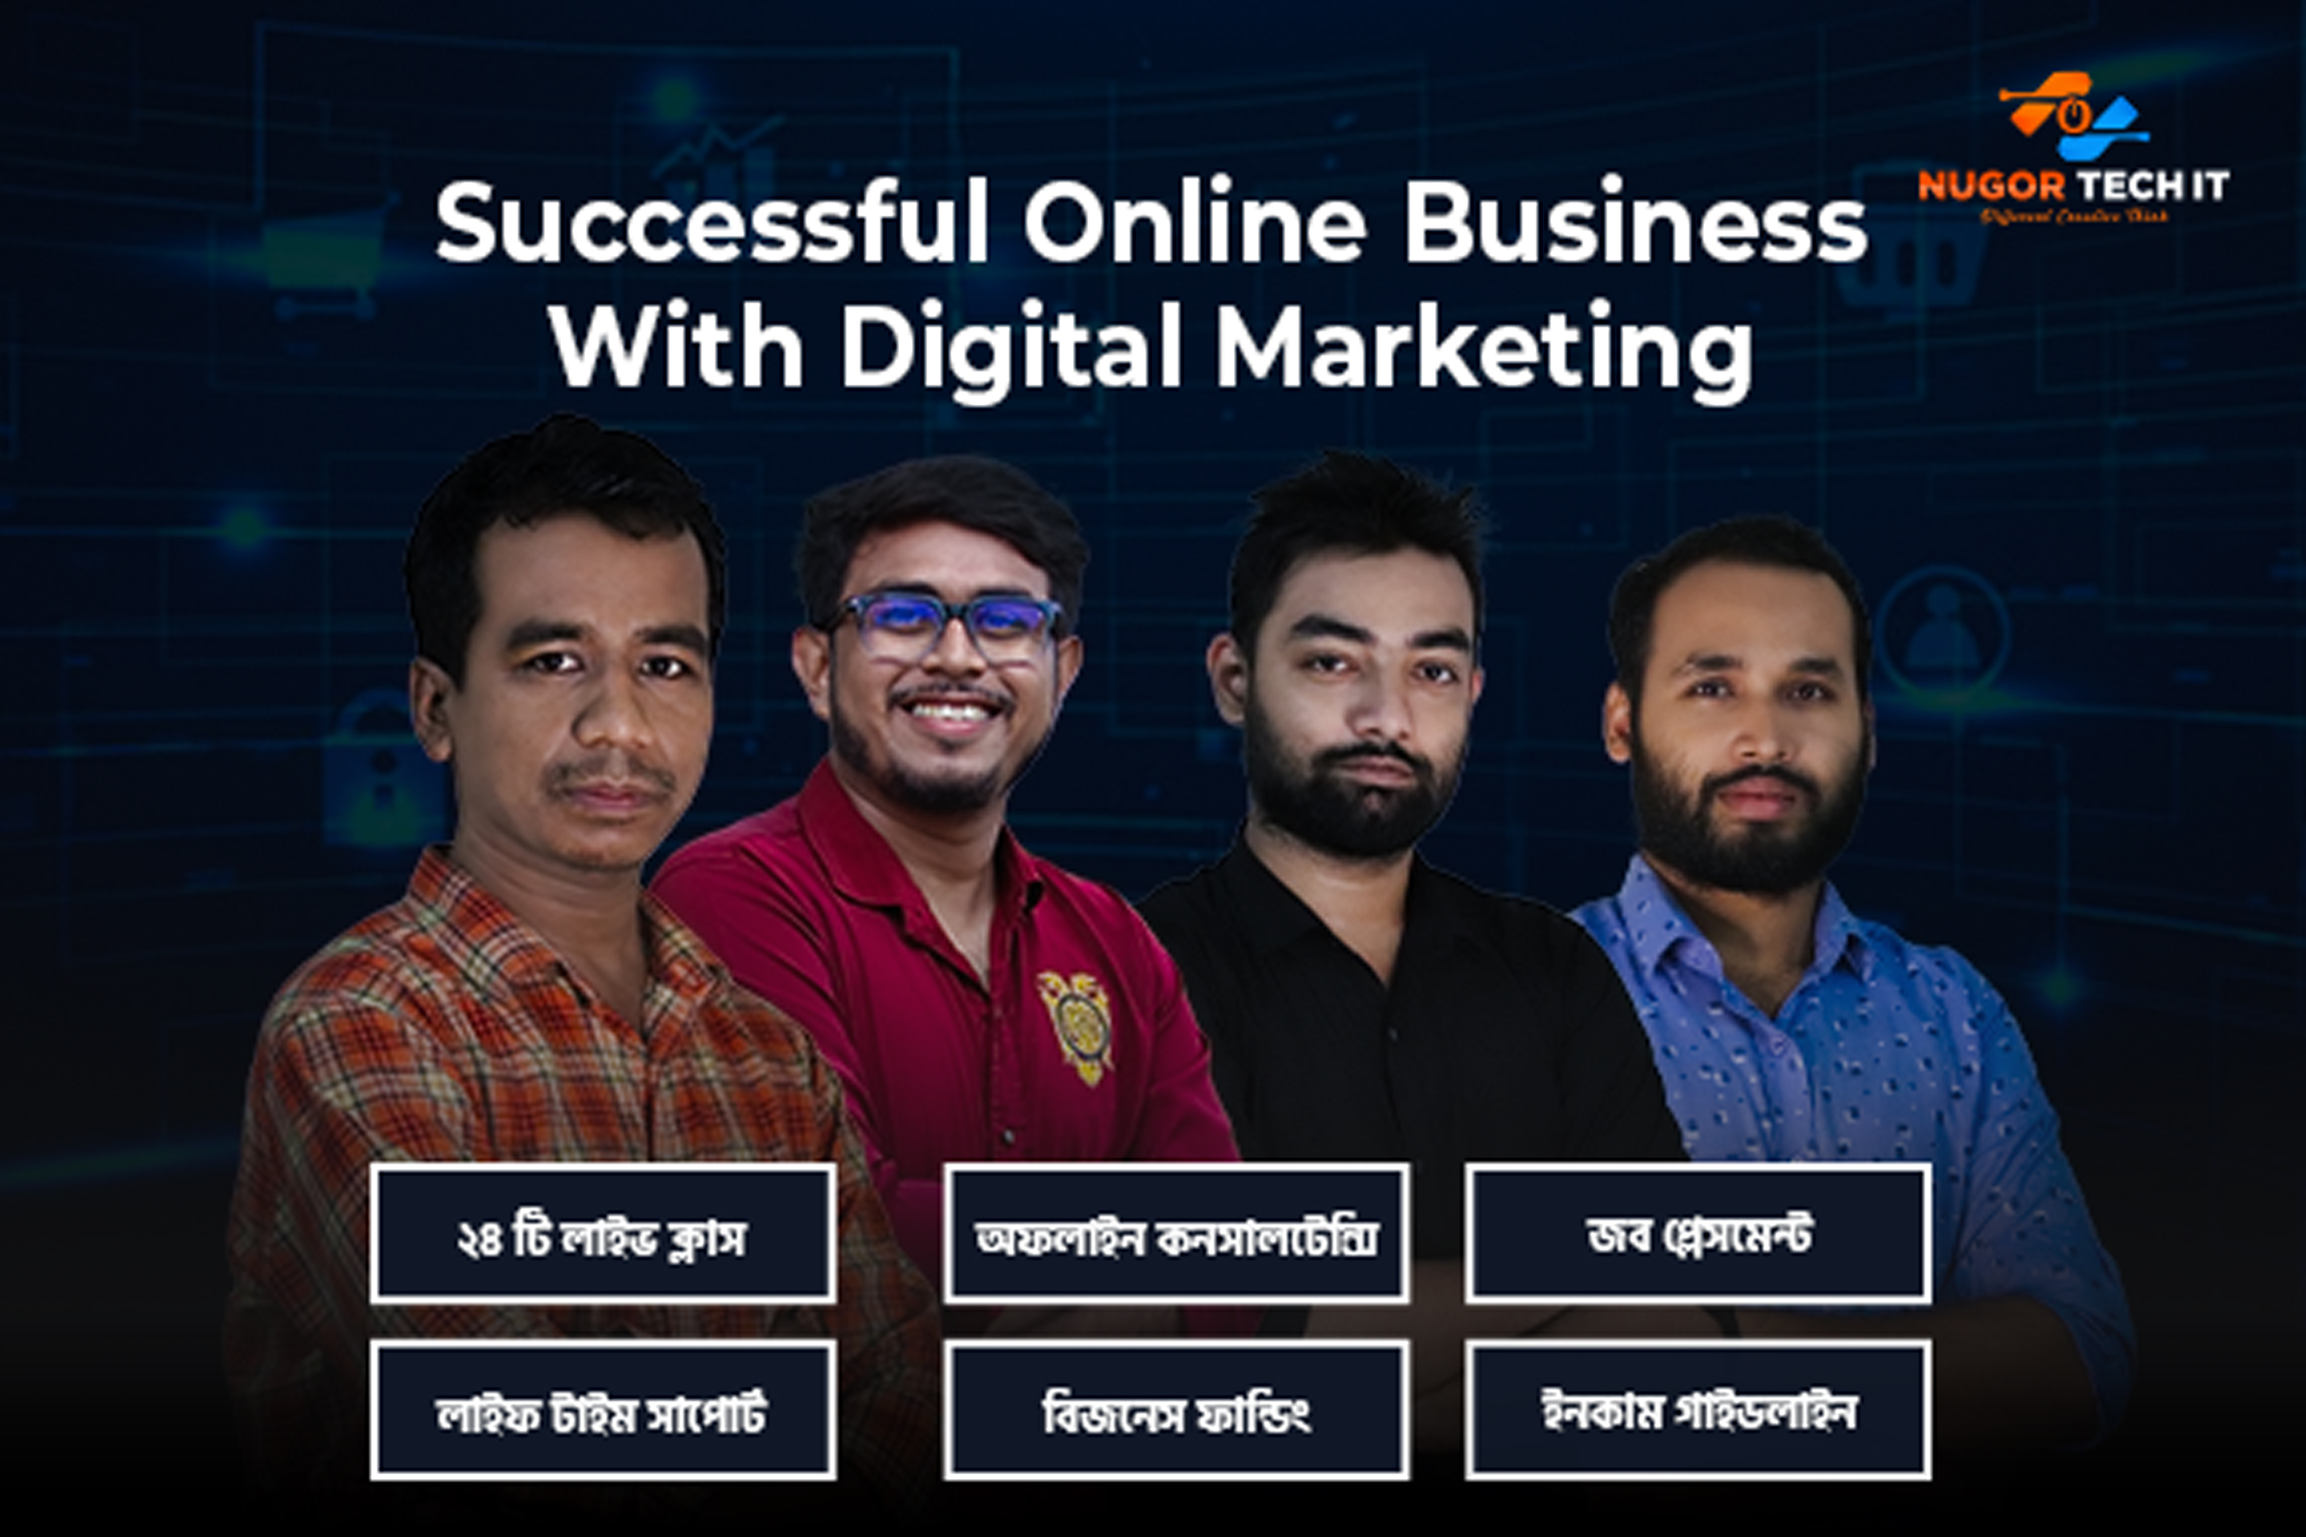
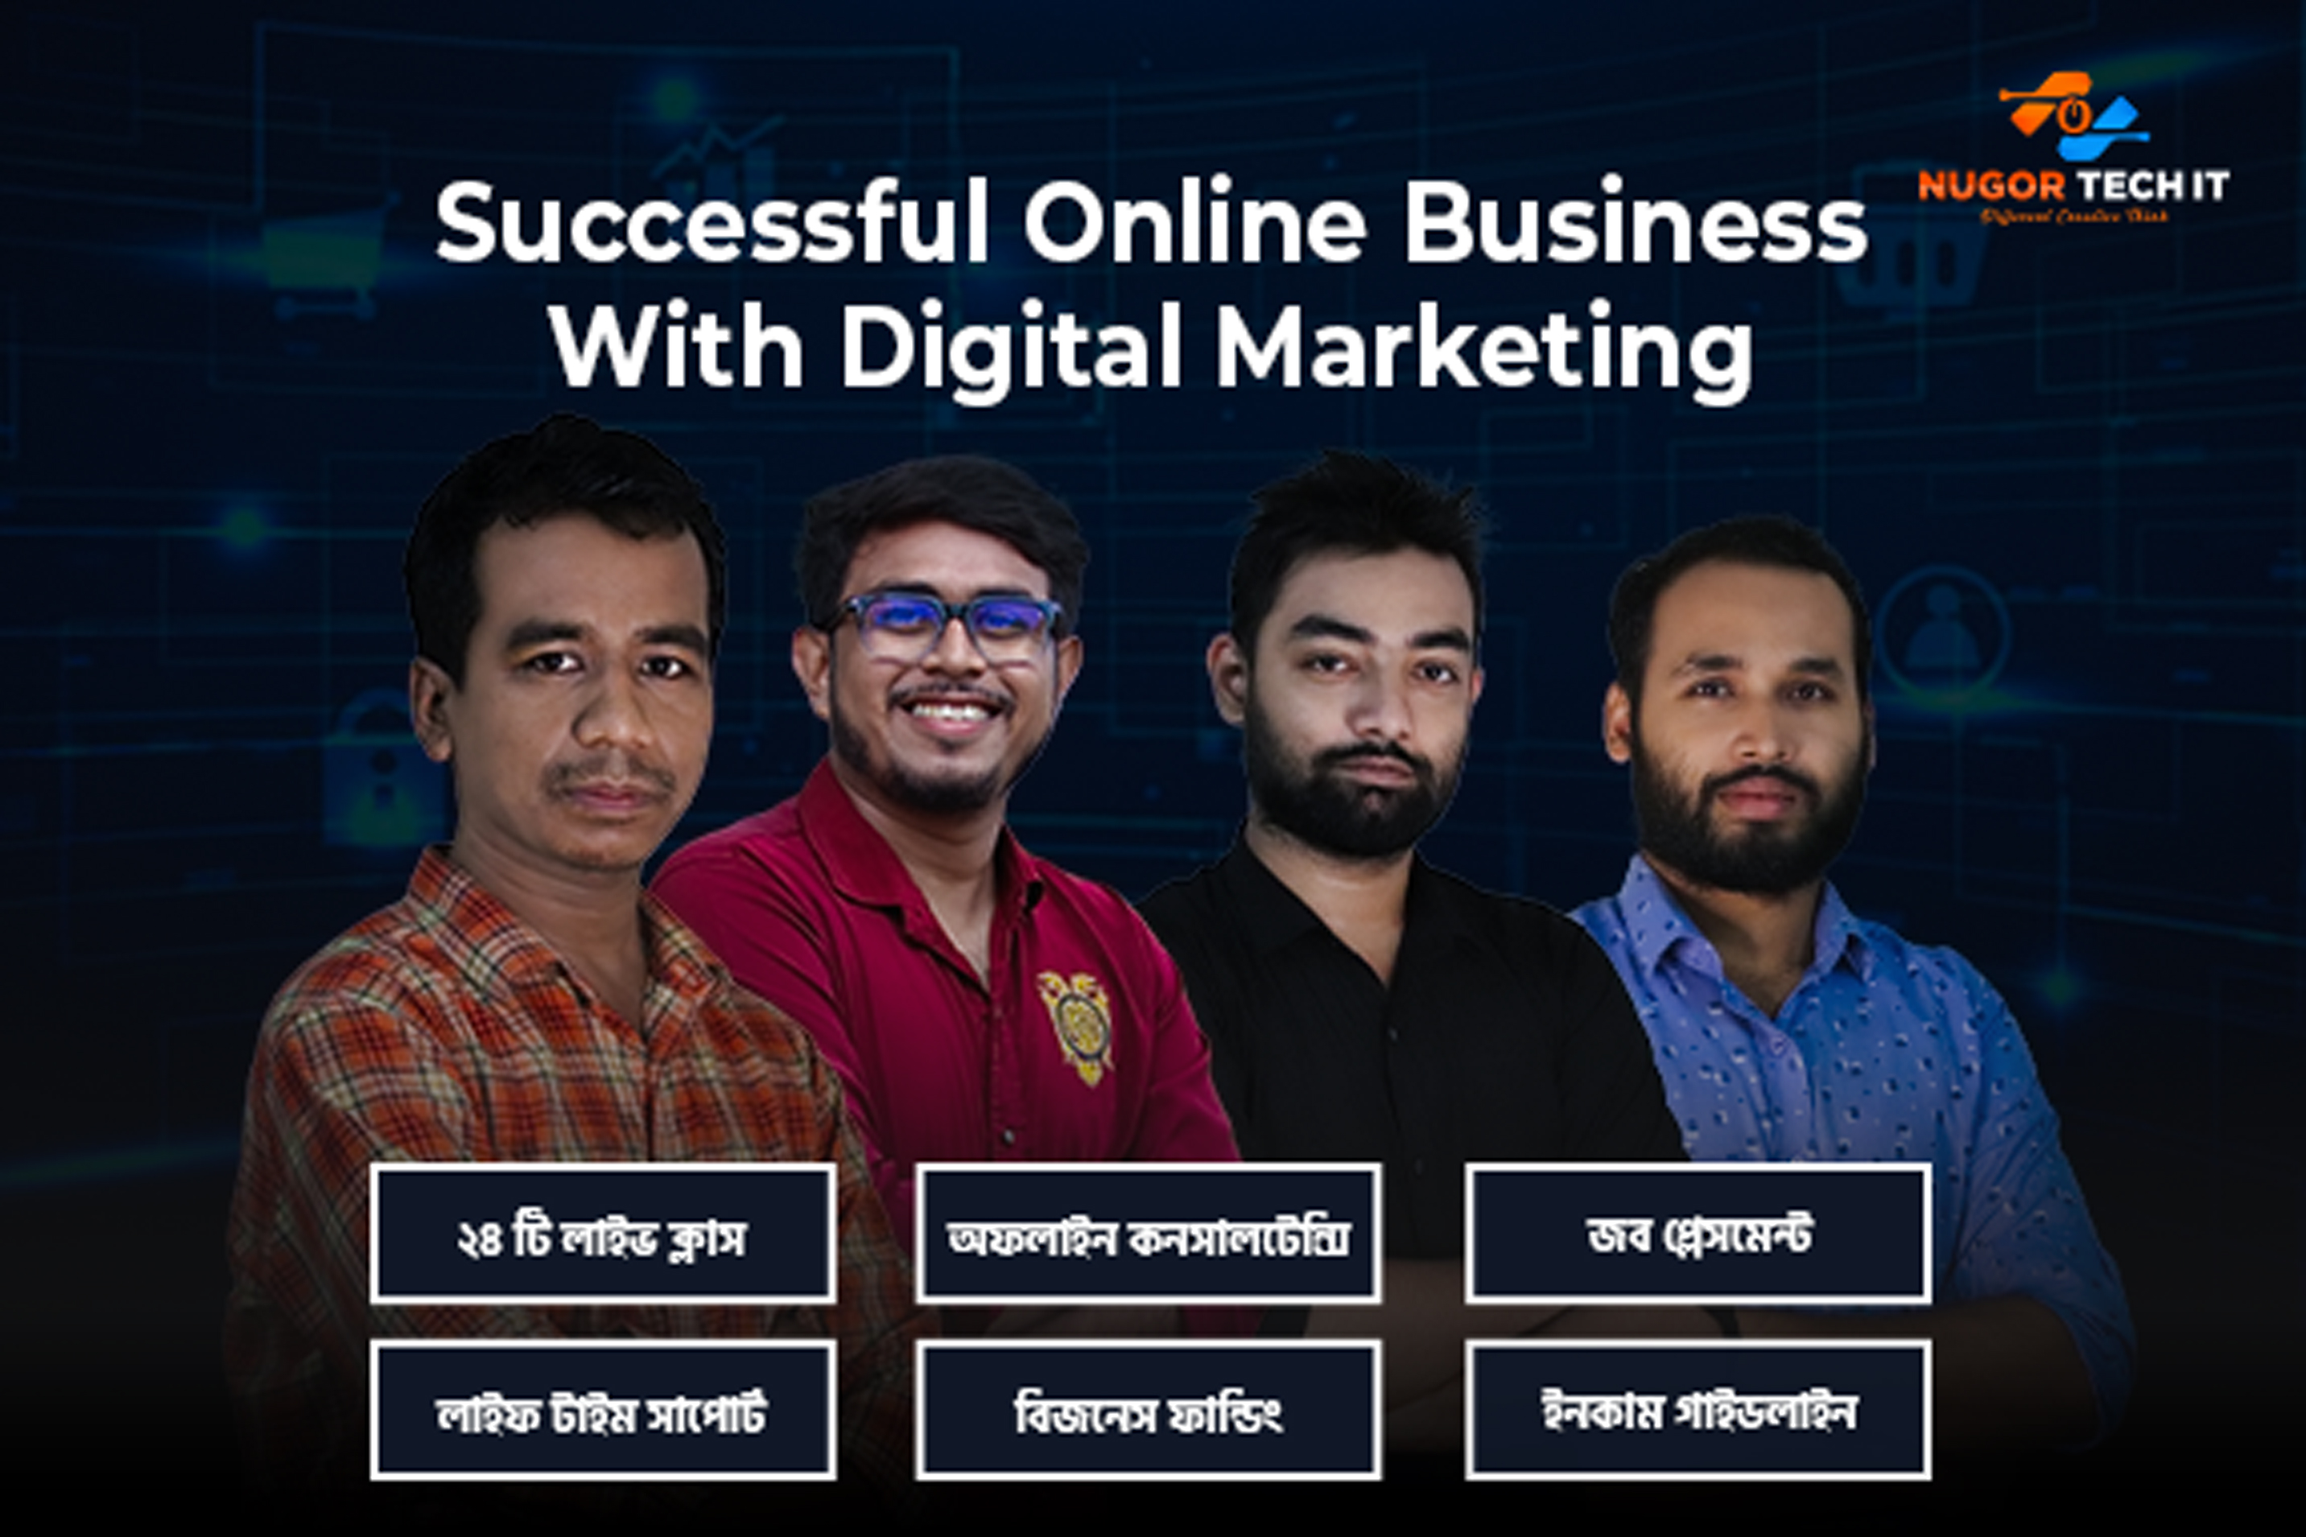
update

Changed region(s): [[0.3728, 0.7414, 0.6213, 0.9885]]

diff --git a/resources/views/frontend/landing/index.blade.php b/resources/views/frontend/landing/index.blade.php
@@ -687,7 +687,7 @@
                     <div class="inner-column">
                         <div class="image-box">
                             <figure class="image overlay-anim"><img
-                                    src="{{ asset('frontend/images/resource/about1-1.webp') }}" alt=""></figure>
+                                    src="{{ asset('frontend/images/landing/two_banner.jpg') }}" alt=""></figure>
                         </div>
                     </div>
                 </div>
@@ -860,7 +860,7 @@
             </div>
         </div>
     </section>
-    <section class="testimonial-section">
+    {{-- <section class="testimonial-section">
         <div class="inner-container">
             <div class="sec-title text-center">
                 <h2>WHAT’s TALKING about<br> our Learners?</h2>
@@ -873,13 +873,13 @@
                         </div>
                         <div class="content-box">
                             <div class="text"><p class="landing_font">Nugortech IT ফুল স্ট্যাক ডিজিটাল মার্কেটিং কোর্সটি আমার মার্কেটিং এর ধারনা চেঞ্জ করে দিয়েছে। একটা সিংগেল কোর্সে এত এত কিছু আমি শিখেছি যে একটা ক্লায়েন্টের সকল ধরনের সমস্যার সমাধান আমি দিতে পারি। গুগল এনালিটিক্স, ফেইসবুক পিক্সেল এবং সার্ভার সাইড ট্র্যাকিং ইউজ করে ক্লায়েন্টের রিয়েল টাইম প্রবলেম সল্যুশন আমার ফ্রিল্যান্সিং জার্নিকে আরো শক্ত করেছে। Nugortech IT কে ধন্যবাদ এমন সময়োপযোগী এবং পরিপুর্ন একটি কোর্স ডিজিটাল মার্কেটিং এর ওপর অফার করার জন্য।</p></div>
-                            {{-- <div class="auther-info">
+                            <div class="auther-info">
                                 <img src="ssss" alt>
                                 <div class="info-box">
                                     <h6 class="title">sss</h6>
                                     <span>sss</span>
                                 </div>
-                            </div> --}}
+                            </div>
                         </div>
                     </div>
                 </div>
@@ -890,13 +890,13 @@
                         </div>
                         <div class="content-box">
                             <div class="text"><p class="landing_font">Nugortech IT এর Full Stack Digital Marketing কোর্সটি বাংলাদেশের সেরা একটি কোর্স। কারন এই কোর্সে রয়েছে দেশসেরা অভিজ্ঞ মেন্টর। আমার কাছে সবচেয়ে ভালো লেগেছে Nugortech IT প্লাটফর্ম এর নিয়মকানুন।  প্রতিটি মডিউলে ২ টি লাইভ ক্লাসের পাশাপাশি ২ টি এসাইনমেন্ট, ১ টি কুইজ এবং ১ টি লাইভ টেস্ট। এবং এগুলোতে পার্ফরম্যান্স এর উপর ভিত্তি করে স্কোর দেওয়া হয়। স্কোরের ভিত্তিতে স্টুডেন্টদের র্যাংকিং করা হয়। এই নিয়মনীতির জন্যই এত লম্বা সময় ধরে কোর্সে মনযোগ ধরে রাখা সম্ভব হয়েছে আমার ক্ষেত্রে। এছাড়াও এটেন্ডেন্স কাউন্ট হওয়ার কারনে আমি কখনো ক্লাস মিস দেইনি।</p></div>
-                            {{-- <div class="auther-info">
+                            <div class="auther-info">
                                 <img src="ssss" alt>
                                 <div class="info-box">
                                     <h6 class="title">sss</h6>
                                     <span>sss</span>
                                 </div>
-                            </div> --}}
+                            </div>
                         </div>
                     </div>
                 </div>
@@ -907,13 +907,13 @@
                         </div>
                         <div class="content-box">
                             <div class="text"><p class="landing_font">Nugortech IT লার্নিং এক্সপেরিয়েন্স, নিয়মিত ক্লাস এবং এসাইনমেন্ট আমার লার্নিং জার্নিকে অনেক ইফেক্টিভ করেছে। আমি কোর্স শেষ হওয়ার আগে থেকেই ক্লায়েন্টের সাথে কাজ করা শুরু করে দিতে পেরেছি।</p></div>
-                            {{-- <div class="auther-info">
+                            <div class="auther-info">
                                 <img src="ssss" alt>
                                 <div class="info-box">
                                     <h6 class="title">sss</h6>
                                     <span>sss</span>
                                 </div>
-                            </div> --}}
+                            </div>
                         </div>
                     </div>
                 </div>
@@ -924,19 +924,19 @@
                         </div>
                         <div class="content-box">
                             <div class="text"><p class="landing_font">শামিম বসের মতন একজন সেরা ট্রেইনার এবং Nugortech IT সুপার ইফেক্টিভ কারিকুলাম মিলে যে গাইডেড জার্নি পেয়েছি, সেটা মার্কেটপ্লেস কিংবা ক্লায়েন্ট সব জায়গার জন্য একদম পার্ফেক্টলি ফিট করেছে।</p></div>
-                            {{-- <div class="auther-info">
+                            <div class="auther-info">
                                 <img src="ssss" alt>
                                 <div class="info-box">
                                     <h6 class="title">sss</h6>
                                     <span>sss</span>
                                 </div>
-                            </div> --}}
+                            </div>
                         </div>
                     </div>
                 </div>
             </div>
         </div>
-    </section>
+    </section> --}}
     <section class="about-section innerpage" style="background: #101828; padding: 50px 0 0 0">
         <div class="auto-container">
             <div class="row">
@@ -1048,7 +1048,7 @@
                 <div class="content-column col-lg-12">
                     <div class="row">
                         <div class="col-lg-3 col-4">
-                            <img src="https://nugortechit.com/uploads/team/FanBd131697.png" alt="">
+                            <img src="{{ asset('frontend/images/landing/cruse-image.jpg') }}" alt="">
                         </div>
                         <div class="col-lg-9 col-8">
                             <div class="inner-column">
@@ -1056,28 +1056,28 @@
                                     <h3>Successful Online Business with Digital Marketing</h3>
                                 </div>
                                 <div class="row">
-                                    <div class="col-lg-3 col-6">
+                                    <div class="col-lg-3 col-6 my-2">
                                         <div class="landing-content-box"
                                             style="border: 1px solid #f94a29; text-align: center; padding-top: 10px;">
-                                            <span class="landing_font">১৩</span><br>
+                                            <span class="landing_font">24</span><br>
                                             <span class="landing-title landing_font">টপিক</span>
                                         </div>
                                     </div>
-                                    <div class="col-lg-3 col-6">
+                                    <div class="col-lg-3 col-6 my-2">
                                         <div class="landing-content-box"
                                             style="border: 1px solid #f94a29; text-align: center; padding-top: 10px;">
-                                            <span class=" landing_font">48</span><br>
+                                            <span class=" landing_font">4</span><br>
                                             <span class="landing-title  landing_font">প্রজেক্ট</span>
                                         </div>
                                     </div>
-                                    <div class="col-lg-3 col-6 mt-3">
+                                    <div class="col-lg-3 col-6 my-2">
                                         <div class="landing-content-box"
                                             style="border: 1px solid #f94a29; text-align: center; padding-top: 10px;">
                                             <span class="landing_font">24</span><br>
                                             <span class="landing-title  landing_font">ভিডিও</span>
                                         </div>
                                     </div>
-                                    <div class="col-lg-3 col-6 mt-3">
+                                    <div class="col-lg-3 col-6 my-2">
                                         <div class="landing-content-box"
                                             style="border: 1px solid #f94a29; text-align: center; padding-top: 10px;">
                                             <span class="landing_font">5</span><br>
@@ -1087,12 +1087,12 @@
                                 </div>
                                 <div class="inner-column">
                                     <div class="sec-title">
-                                        <div class="text landing_font">কোর্স ফি - <del>১০০০০৳</del> Off ৬০০০৳</div>
+                                        <div class="text landing_font order_price" >কোর্স ফি - <del>১০০০০৳</del> Off ৬০০০৳</div>
                                         <div class="my-3">
                                             <form action="{{ route('services.product.checkout') }}" method="POST">
                                                 @csrf
                                                 <input type="hidden" name="product_id" value="{{ $products->id }}">
-                                                <button type="submit" class="theme-btn text-white" style="color: #F94A29;"><a>Admission</a></button>
+                                                <button type="submit" class="theme-btn text-white" style="color: #F94A29; padding: 0 70px"><a>Admission</a></button>
                                             </form>
                                         </div>
                                     </div>

diff --git a/resources/views/frontend/landing/master.blade.php b/resources/views/frontend/landing/master.blade.php
@@ -167,17 +167,25 @@ section>.container, section>.container-fluid{
 body{
     color: #000;
 }
+.order_price {
+    font-size: 24px;
+    color: #F94A29;
+}
 @media(max-width:575.98px) {
     .landing_box{
         font-size: 14px;
     }
     .theme-btn {
-    background-color: var(--theme-color1);
-    padding: 0 30px;
-    height: 40px;
-    line-height: 40px;
-    font-size: 14px;
-}
+        background-color: var(--theme-color1);
+        padding: 0 30px;
+        height: 40px;
+        line-height: 40px;
+        font-size: 14px;
+    }
+    .order_price {
+        font-size: 16px;
+        color: #F94A29;
+    }
 }
 
     </style>
